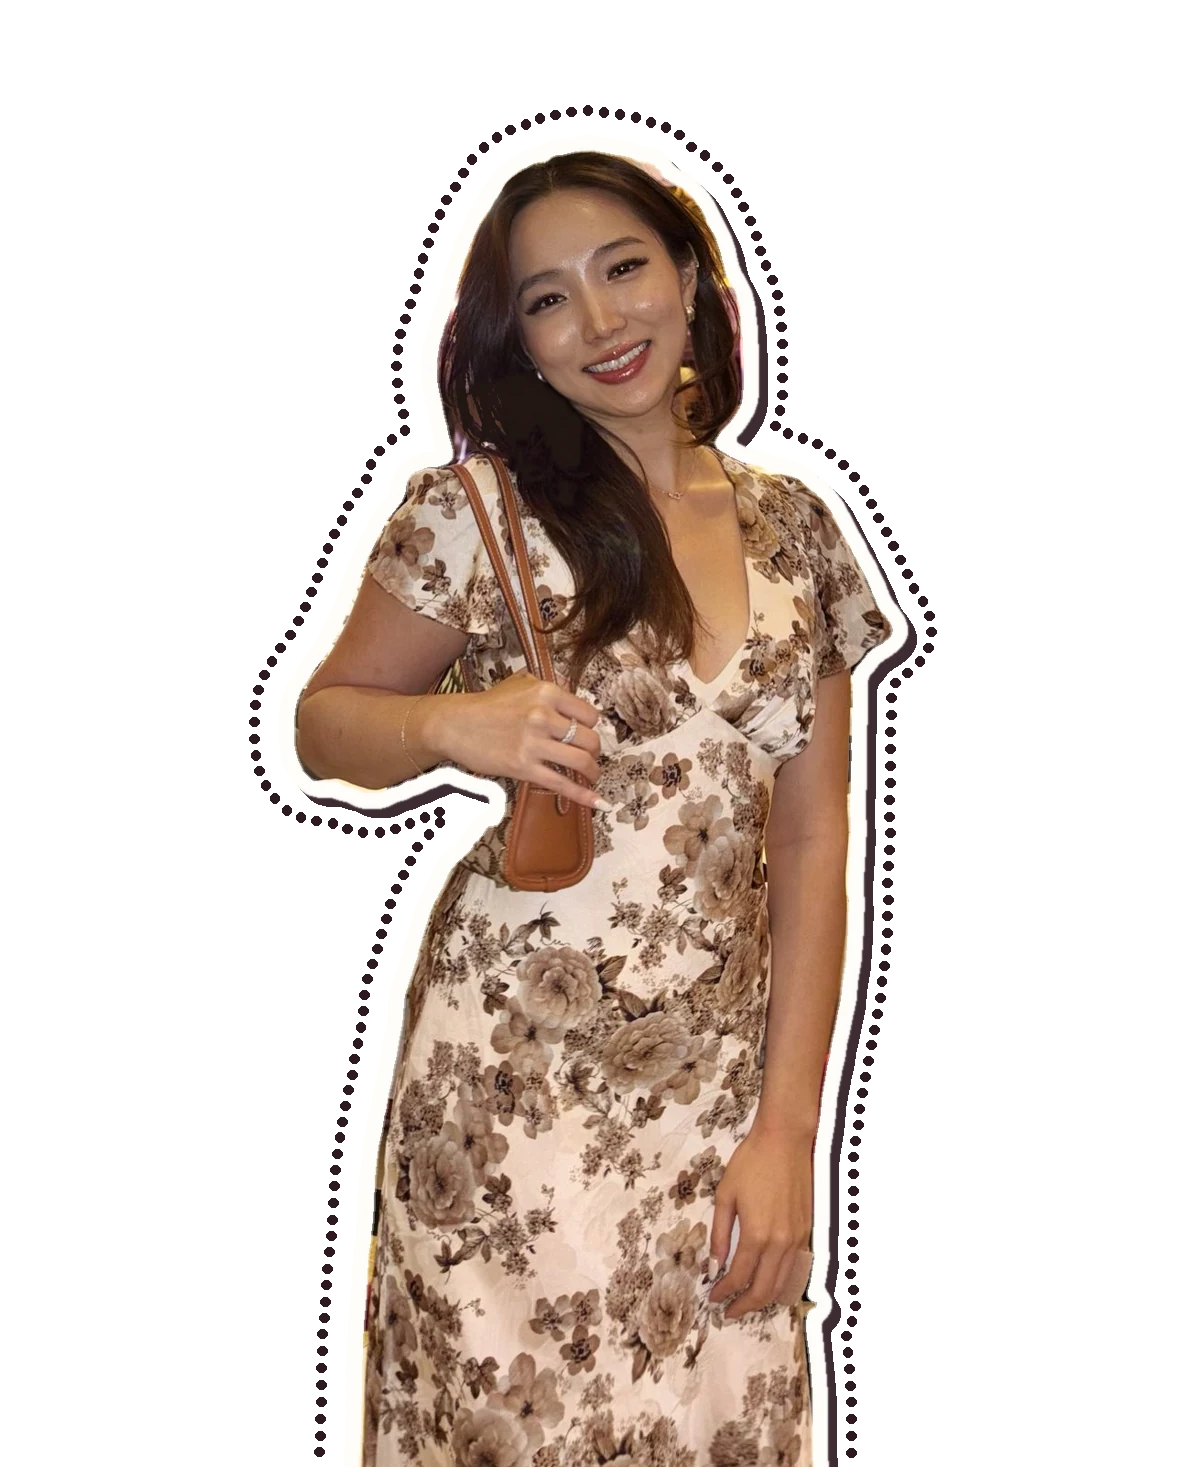
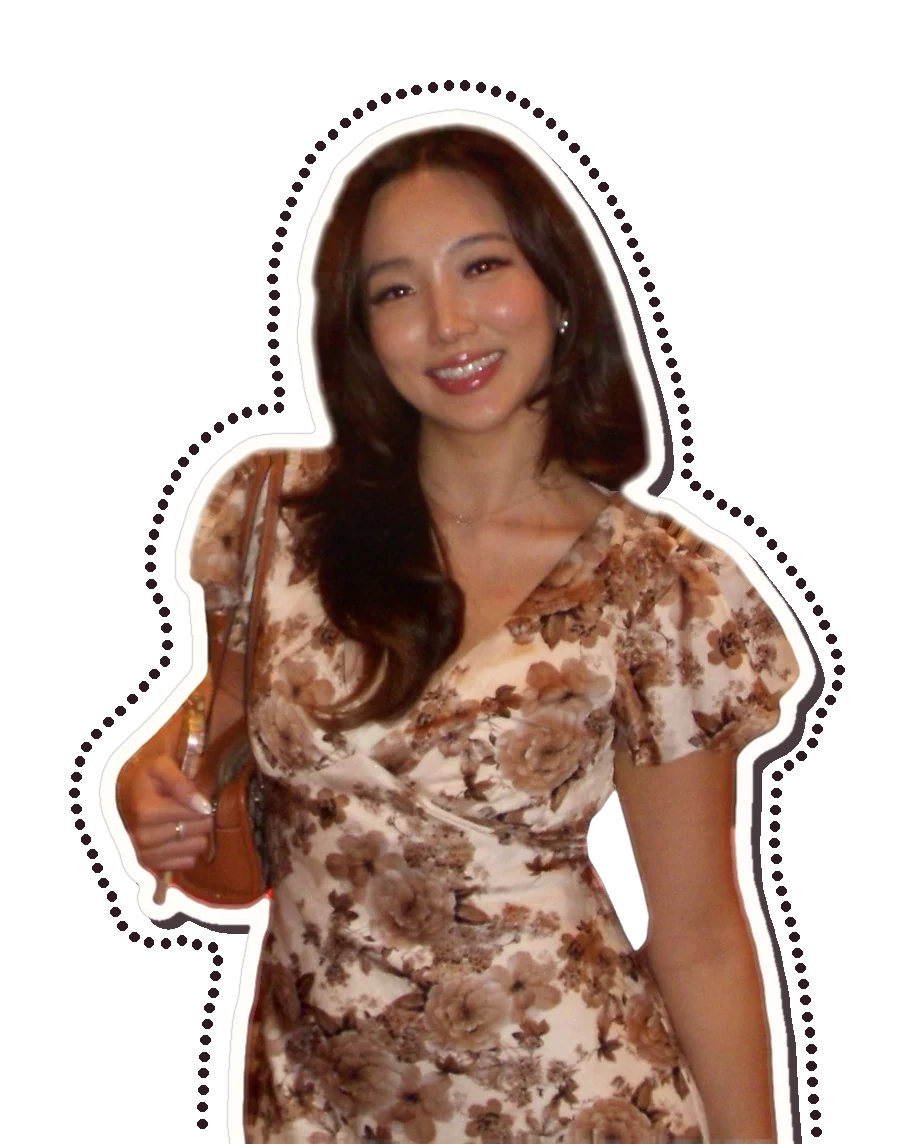
Use new sticker portrait with per-theme backdrop colors

diff --git a/css/style.css b/css/style.css
@@ -17,6 +17,7 @@
 /* ---------- Themes ---------- */
 :root,
 html[data-theme="cherry-soda"] {
+  --portrait: var(--tint);
   --deep: #670626; --deep-rgb: 103,6,38;
   --pop: #F98093; --soft: #FFEDA8; --paper: #F7F1EA; --card: #FFFDF8;
   --spark: #8DB33A; --on-spark: #670626; --cta: #F98093; --cta-text: #670626;
@@ -24,6 +25,7 @@ html[data-theme="cherry-soda"] {
   --v1: #FF4D7D; --v2: #FFC738; --v3: #6CC24A; --win: #FFC738; --cap: #6CC24A;
 }
 html[data-theme="night-garden"] {
+  --portrait: var(--spark);
   --deep: #301728; --deep-rgb: 48,23,40;
   --pop: #ABA0D9; --soft: #FFEDA8; --paper: #F7F1EA; --card: #FFFDF8;
   --spark: #F98093; --on-spark: #301728; --cta: #ABA0D9; --cta-text: #301728;
@@ -31,6 +33,7 @@ html[data-theme="night-garden"] {
   --v1: #9B6BFF; --v2: #FFC738; --v3: #FF6FA3; --win: #FFC738; --cap: #FF6FA3;
 }
 html[data-theme="persimmon-studio"] {
+  --portrait: var(--soft);
   --deep: #233257; --deep-rgb: 35,50,87;
   --pop: #E8875C; --soft: #C9D4EA; --paper: #E2D5BB; --card: #FBF7EE;
   --spark: #435A86; --on-spark: #FBF7EE; --cta: #E8875C; --cta-text: #233257;
@@ -38,6 +41,7 @@ html[data-theme="persimmon-studio"] {
   --v1: #FF7433; --v2: #2F6BFF; --v3: #FFD23F; --win: #FFD23F; --cap: #2F6BFF;
 }
 html[data-theme="sakura-cafe"] {
+  --portrait: var(--tint);
   --deep: #443025; --deep-rgb: 68,48,37;
   --pop: #EC9C9D; --soft: #F2CFCA; --paper: #FAF1EE; --card: #FFFAF8;
   --spark: #7F5836; --on-spark: #FAF1EE; --cta: #EC9C9D; --cta-text: #443025;
@@ -89,8 +93,8 @@ body { margin: 0; background-color: var(--paper); }
 .slot[data-slot="spreadsheet"] > video { object-position: left center; }
 .slot[data-slot="chat"] > video { object-position: left center; }
 
-/* Profile portrait: transparent sticker cut-out on the theme's soft color */
-.slot[data-slot="profile"].has-img { background-color: var(--soft) !important; background-image: none !important; }
+/* Profile portrait: transparent sticker cut-out on a per-theme backdrop (--portrait, set in each theme above) */
+.slot[data-slot="profile"].has-img { background-color: var(--portrait) !important; background-image: none !important; }
 .slot[data-slot="profile"] > img { object-position: 50% 0%; }
 .slot[data-slot="profile"] { height: auto !important; aspect-ratio: 4 / 5; }
 /* Phone frame for app recordings (slot has data-frame="phone").

diff --git a/index.html b/index.html
@@ -413,6 +413,7 @@
 <span style="font-family: 'Space Mono', monospace; font-size: 13px">Nov 2025</span>
 </div>
 <p style="margin: 10px 0 16px; font-size: 16px; line-height: 1.55">A practice page from my web support job, built to learn Modern Campus CMS. I put together my own University of Utah profile with a photo hero, cards for my classes, and contact and office-hours sections.</p>
+<p style="margin: -6px 0 16px; font-size: 15px"><a href="https://websites.it.utah.edu/brynlee-test/" target="_blank" rel="noopener" style="color: inherit; font-weight: 700; text-decoration: underline; text-underline-offset: 3px">View the live page ↗</a></p>
 <div style="display: flex; flex-wrap: wrap; gap: 8px; font-family: 'Space Mono', monospace; font-size: 12px; font-weight: 700">
 <span style="padding: 6px 12px; border-radius: 999px; background-color: var(--soft); border: 1.5px solid var(--deep)">Modern Campus CMS</span>
 <span style="padding: 6px 12px; border-radius: 999px; background-color: var(--soft); border: 1.5px solid var(--deep)">Work project</span>
